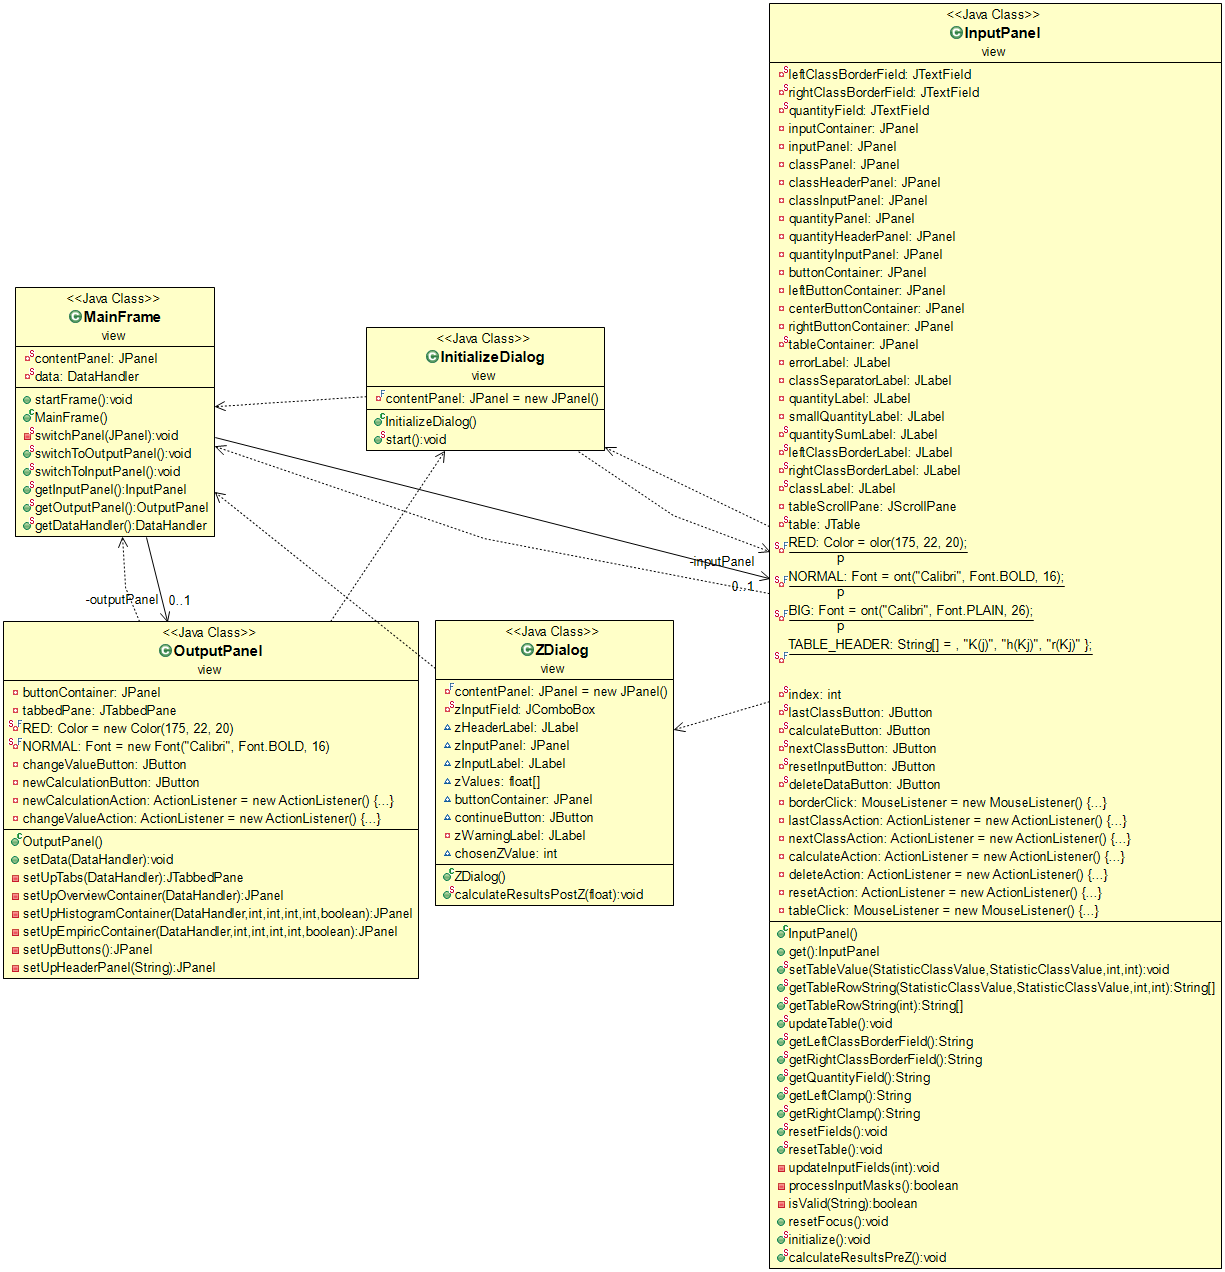
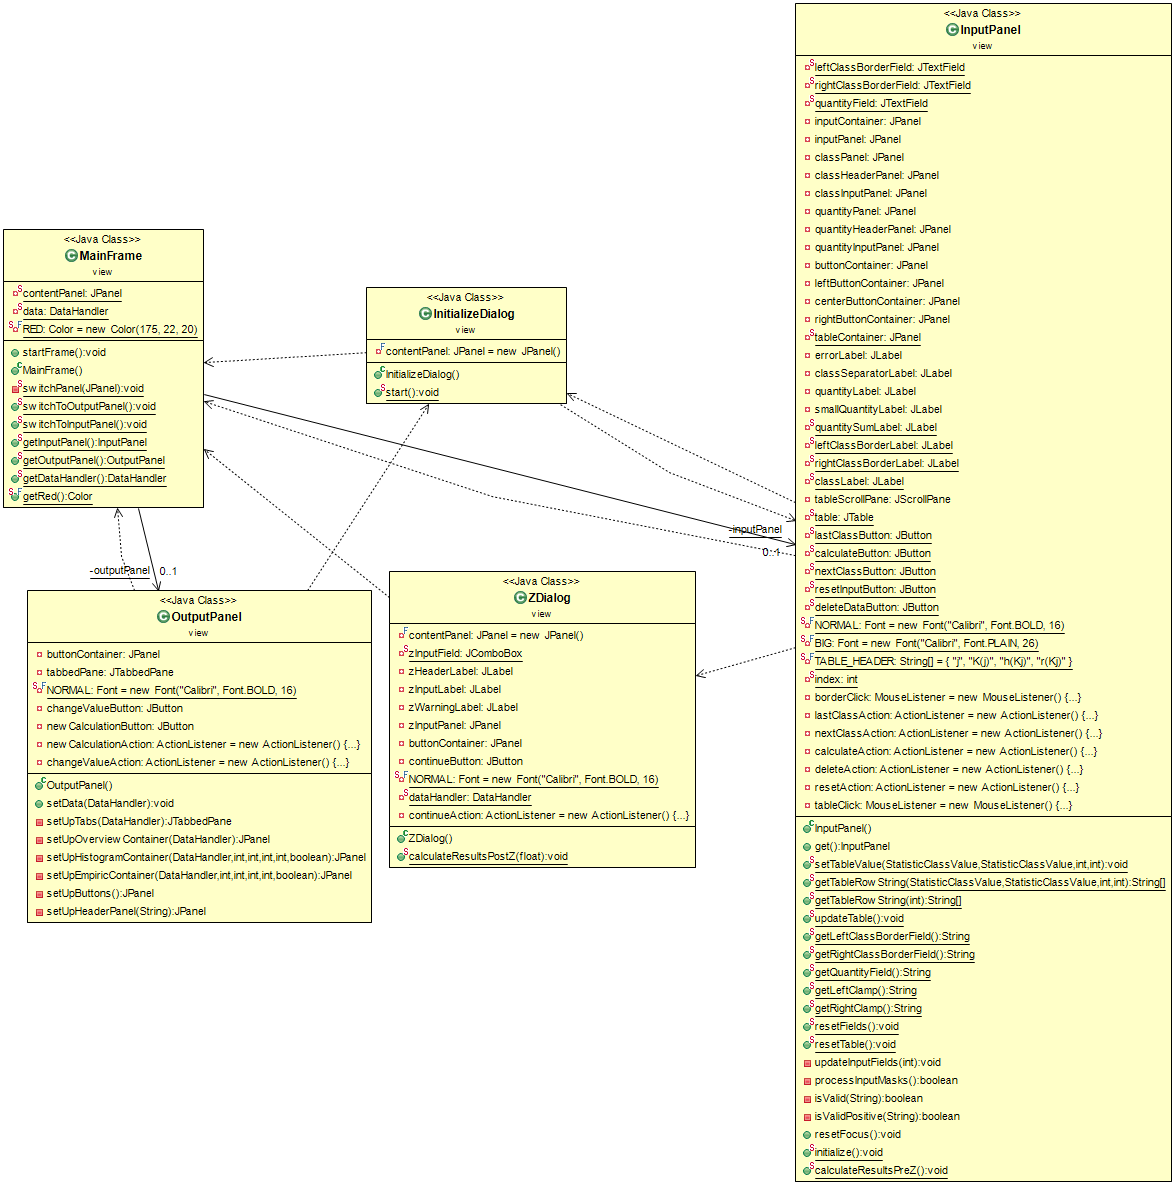
Kleine Änderungen

diff --git a/Heinrich/src/view/InputPanel.java b/Heinrich/src/view/InputPanel.java
@@ -53,15 +53,13 @@ public class InputPanel extends JPanel
 	private static JLabel leftClassBorderLabel, rightClassBorderLabel, classLabel;
 	private JScrollPane tableScrollPane;
 	private static JTable table;
+	private static JButton lastClassButton, calculateButton, nextClassButton, resetInputButton, deleteDataButton;
 
-	private final static Color RED = new Color(175, 22, 20);
 	private final static Font NORMAL = new Font("Calibri", Font.BOLD, 16);
 	private final static Font BIG = new Font("Calibri", Font.PLAIN, 26);
 	private final static String[] TABLE_HEADER = { "j", "K(j)", "h(Kj)", "r(Kj)" };
 
 	private static int index;
-
-	private static JButton lastClassButton, calculateButton, nextClassButton, resetInputButton, deleteDataButton;
 
 	/**
 	 * Creating the panel with all its components.
@@ -93,7 +91,7 @@ public class InputPanel extends JPanel
 
 		classHeaderPanel = new JPanel();
 		classHeaderPanel.setBorder(new LineBorder(new Color(0, 0, 0)));
-		classHeaderPanel.setBackground(RED);
+		classHeaderPanel.setBackground(MainFrame.getRed());
 
 		classLabel = new JLabel("Klasse 1 definieren");
 		classLabel.setForeground(Color.WHITE);
@@ -156,7 +154,7 @@ public class InputPanel extends JPanel
 
 		quantityHeaderPanel = new JPanel();
 		quantityHeaderPanel.setBorder(new LineBorder(new Color(0, 0, 0)));
-		quantityHeaderPanel.setBackground(RED);
+		quantityHeaderPanel.setBackground(MainFrame.getRed());
 
 		quantityLabel = new JLabel("Absolute H\u00E4ufigkeit h");
 		quantityLabel.setForeground(Color.WHITE);
@@ -195,7 +193,7 @@ public class InputPanel extends JPanel
 		errorLabel = new JLabel("");
 		errorLabel.setHorizontalAlignment(SwingConstants.CENTER);
 		errorLabel.setBackground(Color.WHITE);
-		errorLabel.setForeground(RED);
+		errorLabel.setForeground(MainFrame.getRed());
 		errorLabel.setFont(NORMAL);
 		errorLabel.setVisible(false);
 		errorLabel.setBorder(new LineBorder(new Color(0, 0, 0)));
@@ -227,7 +225,7 @@ public class InputPanel extends JPanel
 		resetInputButton = new JButton("X");
 		resetInputButton.addActionListener(resetAction);
 		resetInputButton.setMaximumSize(new Dimension(50, 50));
-		resetInputButton.setForeground(RED);
+		resetInputButton.setForeground(MainFrame.getRed());
 		resetInputButton.setFont(BIG);
 
 		calculateButton = new JButton("Berechnen");

diff --git a/Heinrich/src/view/MainFrame.java b/Heinrich/src/view/MainFrame.java
@@ -1,6 +1,7 @@
 package view;
 
 import java.awt.BorderLayout;
+import java.awt.Color;
 import java.awt.EventQueue;
 import java.awt.event.WindowAdapter;
 import java.awt.event.WindowEvent;
@@ -28,6 +29,7 @@ public class MainFrame extends JFrame
 	private static InputPanel inputPanel;
 	private static OutputPanel outputPanel;
 	private static DataHandler data;
+	private final static Color RED = new Color(175, 22, 20);
 
 	/**
 	 * Launch the application.
@@ -150,5 +152,15 @@ public class MainFrame extends JFrame
 	public static DataHandler getDataHandler()
 	{
 		return data;
+	}
+
+	/**
+	 * Return the defined Color Red.
+	 * 
+	 * @return Color Red
+	 */
+	public final static Color getRed()
+	{
+		return RED;
 	}
 }

diff --git a/Heinrich/src/view/OutputPanel.java b/Heinrich/src/view/OutputPanel.java
@@ -41,7 +41,6 @@ public class OutputPanel extends JPanel
 	private JPanel buttonContainer;
 	private JTabbedPane tabbedPane;
 
-	private final static Color RED = new Color(175, 22, 20);
 	private final static Font NORMAL = new Font("Calibri", Font.BOLD, 16);
 
 	private JButton changeValueButton;
@@ -397,7 +396,7 @@ public class OutputPanel extends JPanel
 		JPanel headerPanel = new JPanel();
 		JLabel headerLabel = new JLabel(title);
 
-		headerPanel.setBackground(RED);
+		headerPanel.setBackground(MainFrame.getRed());
 		headerPanel.setBorder(new LineBorder(new Color(0, 0, 0)));
 		headerPanel.setLayout(new FlowLayout(FlowLayout.CENTER, 0, 0));
 		headerLabel.setForeground(Color.WHITE);

diff --git a/Heinrich/src/view/ZDialog.java b/Heinrich/src/view/ZDialog.java
@@ -86,7 +86,7 @@ public class ZDialog extends JDialog
 		zInputPanel.add(zInputField, BorderLayout.CENTER);
 
 		zWarningLabel = new JLabel(" ");
-		zWarningLabel.setForeground(Color.RED);
+		zWarningLabel.setForeground(MainFrame.getRed());
 		zWarningLabel.setFont(NORMAL);
 		zWarningLabel.setHorizontalAlignment(SwingConstants.CENTER);
 		zInputPanel.add(zWarningLabel, BorderLayout.SOUTH);

diff --git a/Heinrich/src/view/InitializeDialog.java b/Heinrich/src/view/InitializeDialog.java
@@ -22,7 +22,6 @@ import javax.swing.border.EmptyBorder;
 @SuppressWarnings("serial")
 public class InitializeDialog extends JDialog
 {
-
 	private final JPanel contentPanel = new JPanel();
 
 	/**
